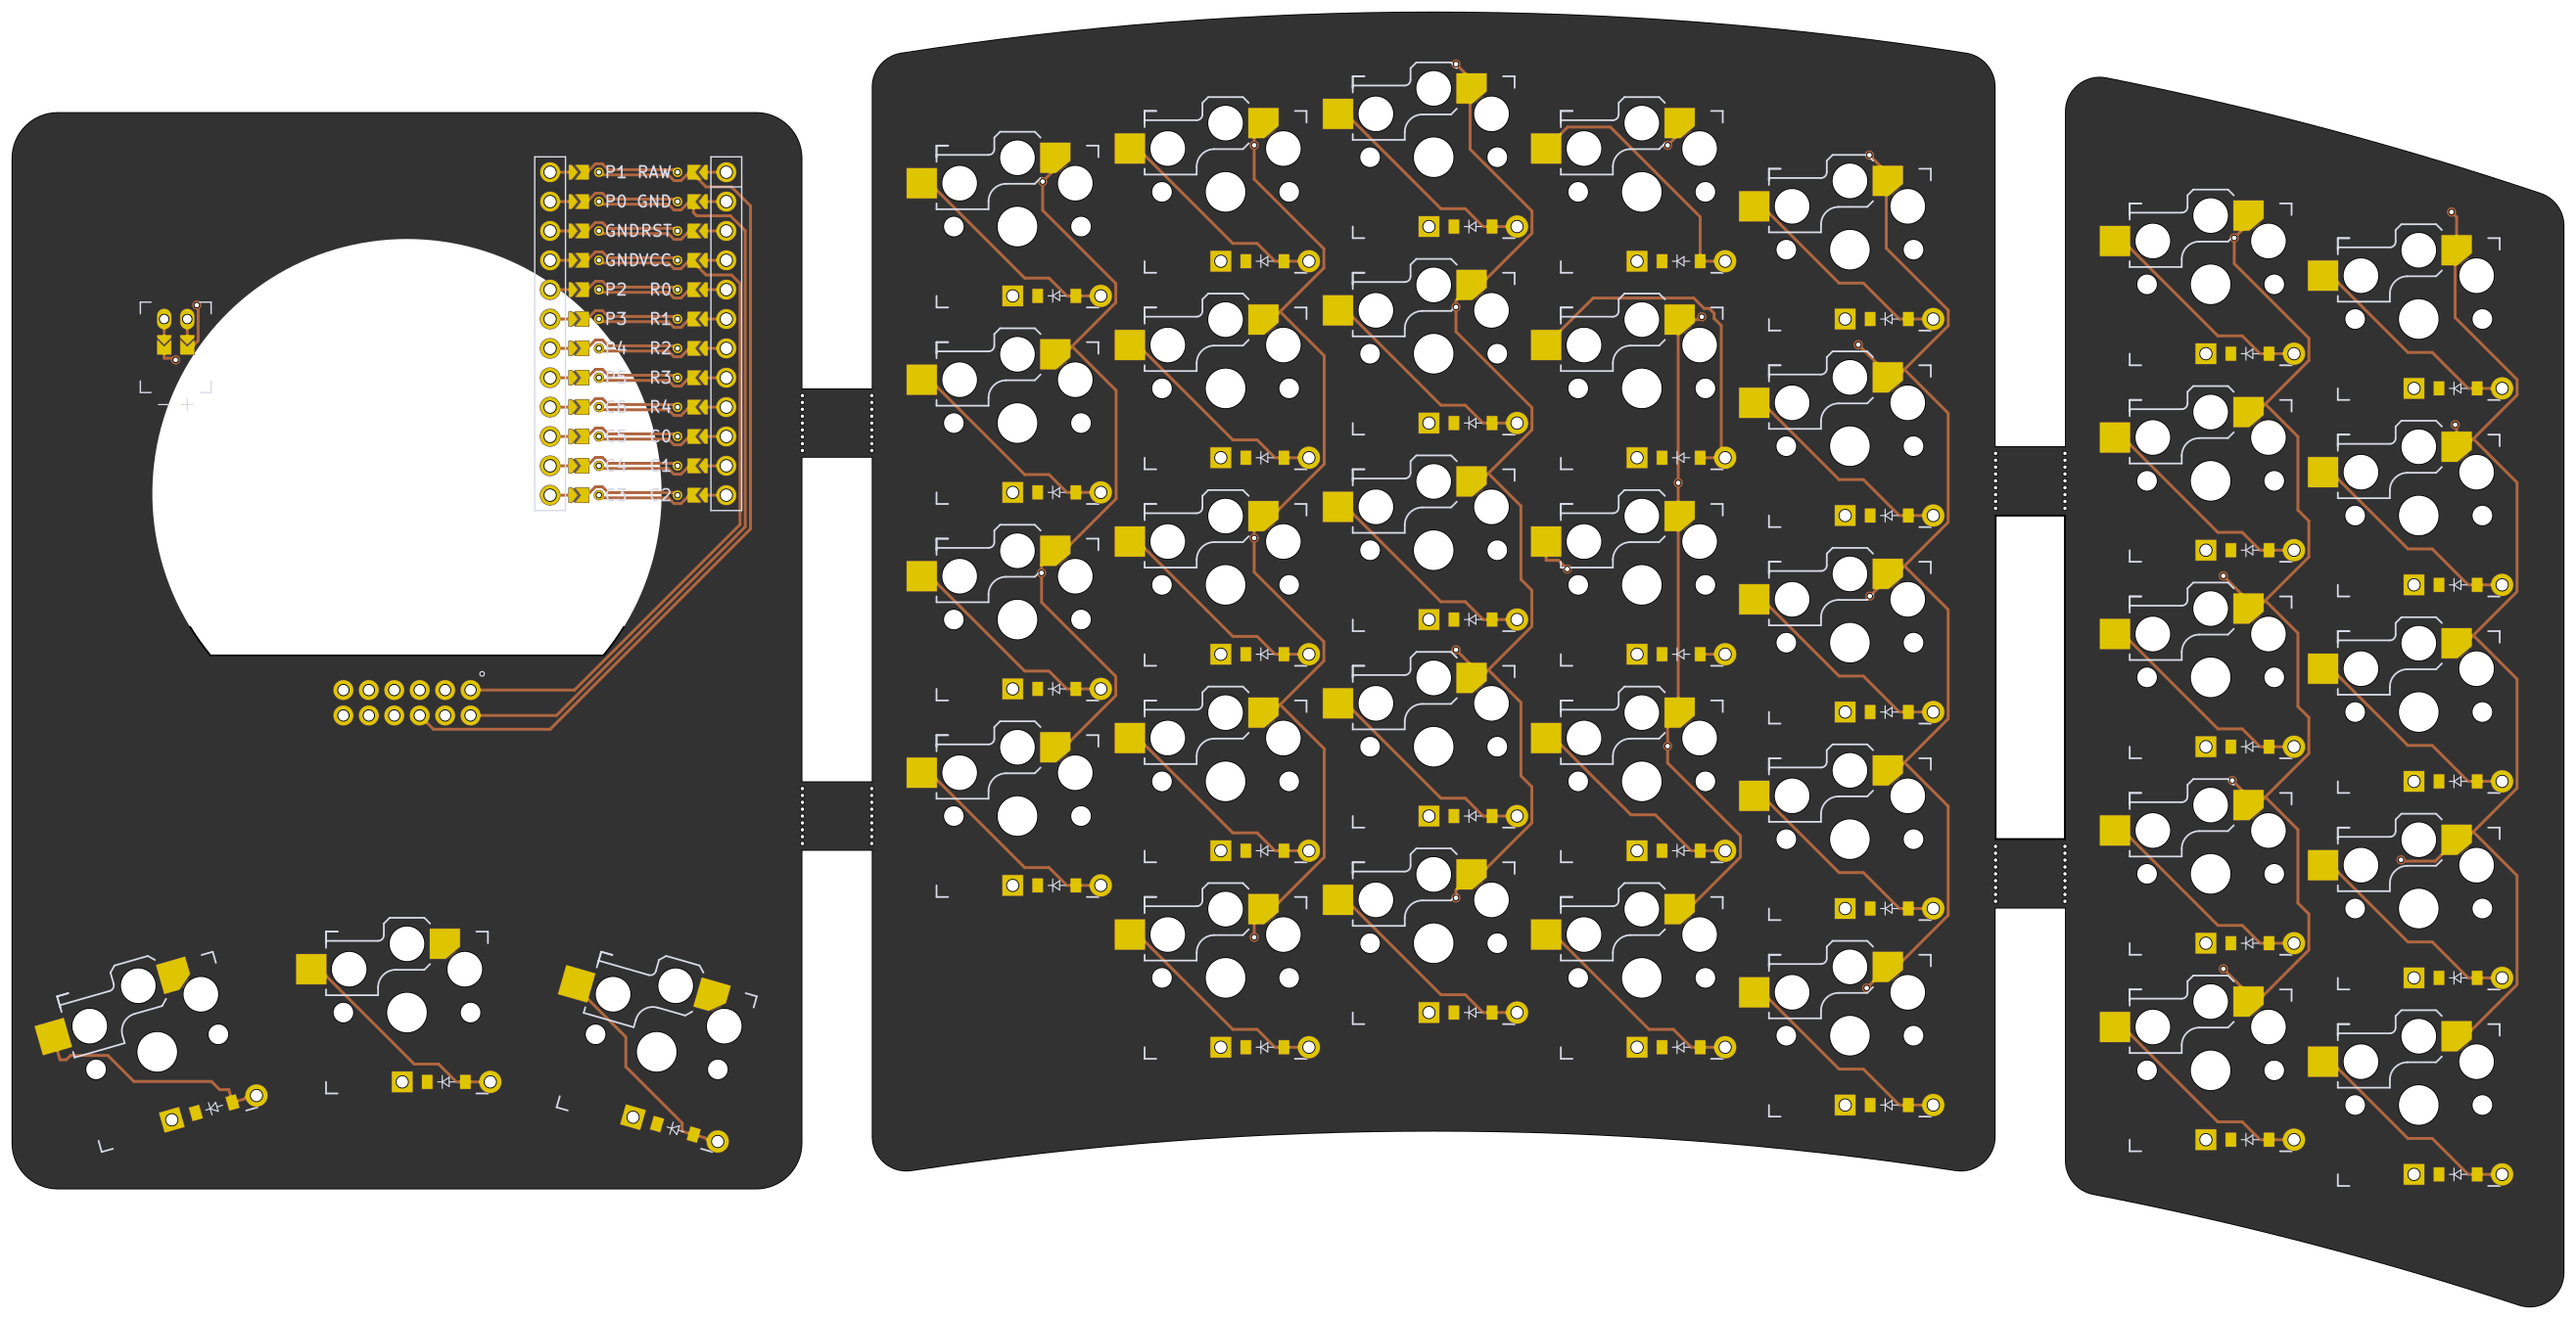
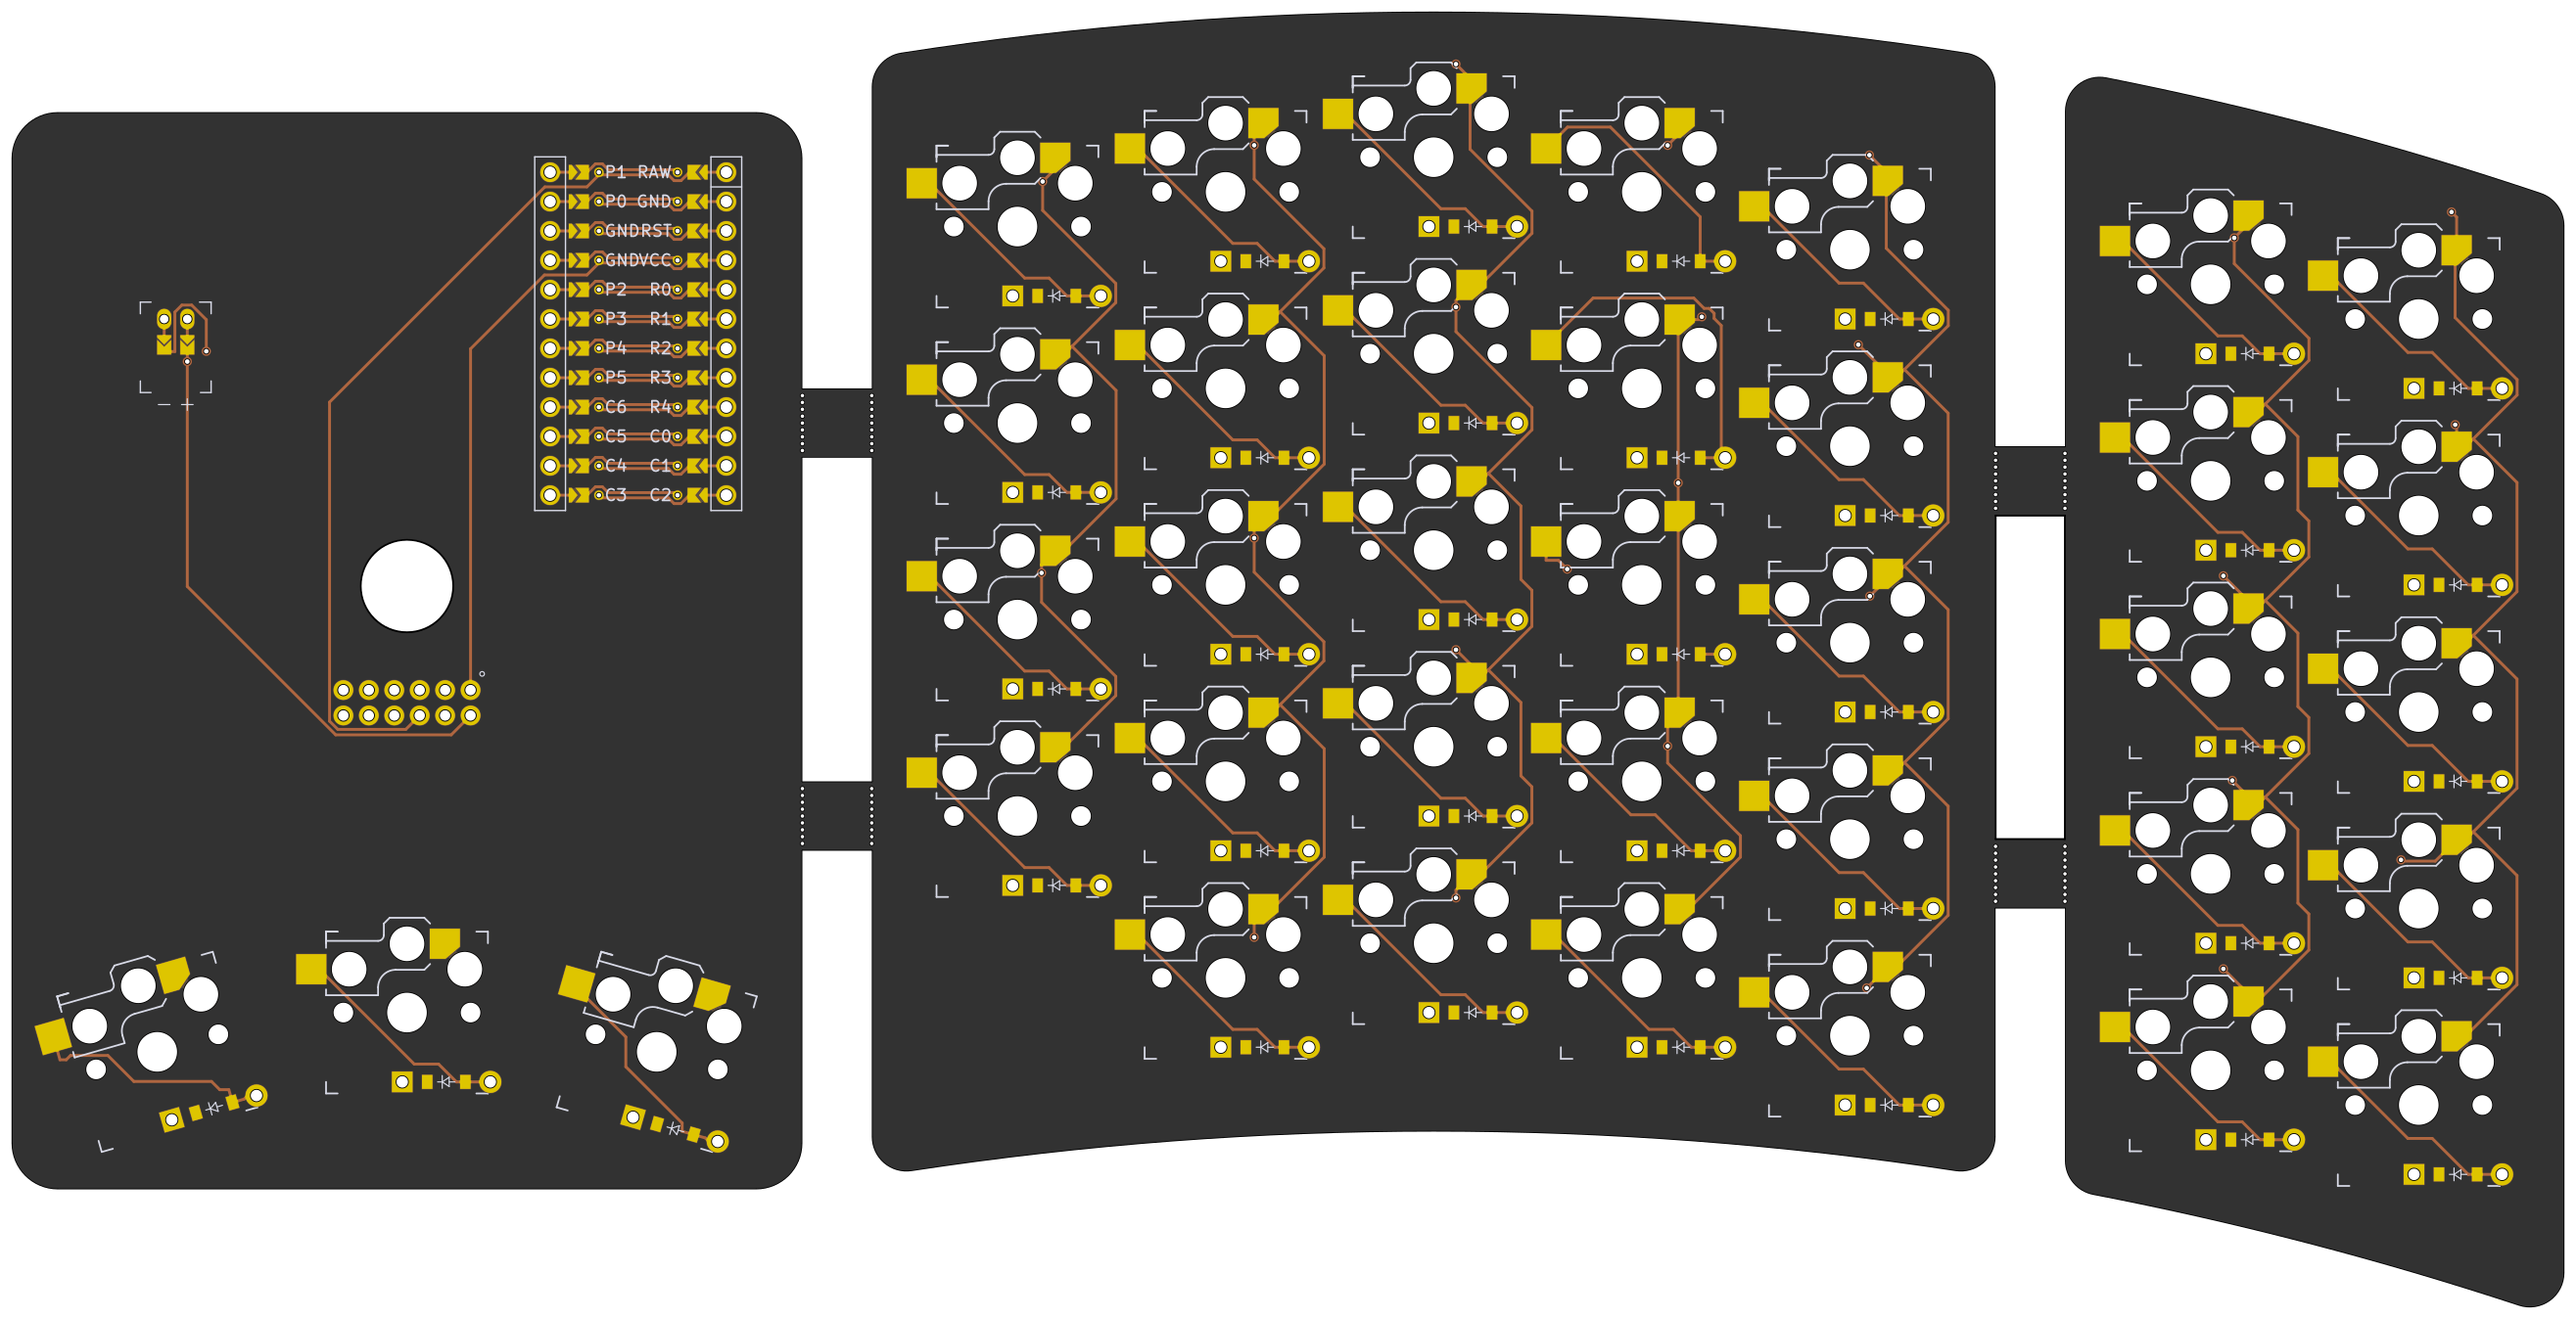
Lessens the module hole to allow greater use of PCB back side

Changed region(s): [[0.0623, 0.1558, 0.3117, 0.5297], [0.1247, 0.5297, 0.2182, 0.5608]]

diff --git a/input/footprints/shit.js b/input/footprints/shit.js
@@ -24,15 +24,14 @@ module.exports = {
       (fp_text reference ${p.ref} (at -1.037771 -10.340352) (layer "Dwgs.User") hide
         (effects (font (size 1 1) (thickness 0.15)))
       )
-      (fp_text value "Connector_VIK-keyboard" (at 0 -12) (layer "F.Fab") hide
+      (fp_text value "Connector_SHIT-keyboard" (at 0 -12) (layer "F.Fab") hide
         (effects (font (size 1 1) (thickness 0.15)))
       )
       (fp_circle (center -6.5 15.6) (end -6.5 15.4) (width 0.1) (layer "B.SilkS") )
       (fp_circle (center -6.5 15.6) (end -6.5 15.85) (width 0.1) (layer "F.SilkS") )
       (fp_circle (center 0 0) (end 23 0) (width 0.1) (layer "F.SilkS") )
       (fp_circle (center 0 0) (end 27.5 0) (width 0.1) (layer "F.SilkS") )
-      (fp_line (start -17 14) (end 17 14) (width 0.1) (layer "Edge.Cuts") )
-      (fp_arc (start 0 0) (end 17 14) (angle -258.9) (width 0.1) (layer "Edge.Cuts") )
+      (fp_circle (center 0 8) (end 0 4) (width 0.05) (layer "Edge.Cuts"))
       (pad "1" thru_hole circle (at -5.5 17 127) (size 1.7 1.7) (drill 0.9) (layers "*.Cu" "*.Mask")
         ${p.V3V.str} )
       (pad "2" thru_hole circle (at -5.5 19.2 127) (size 1.7 1.7) (drill 0.9) (layers "*.Cu" "*.Mask")
